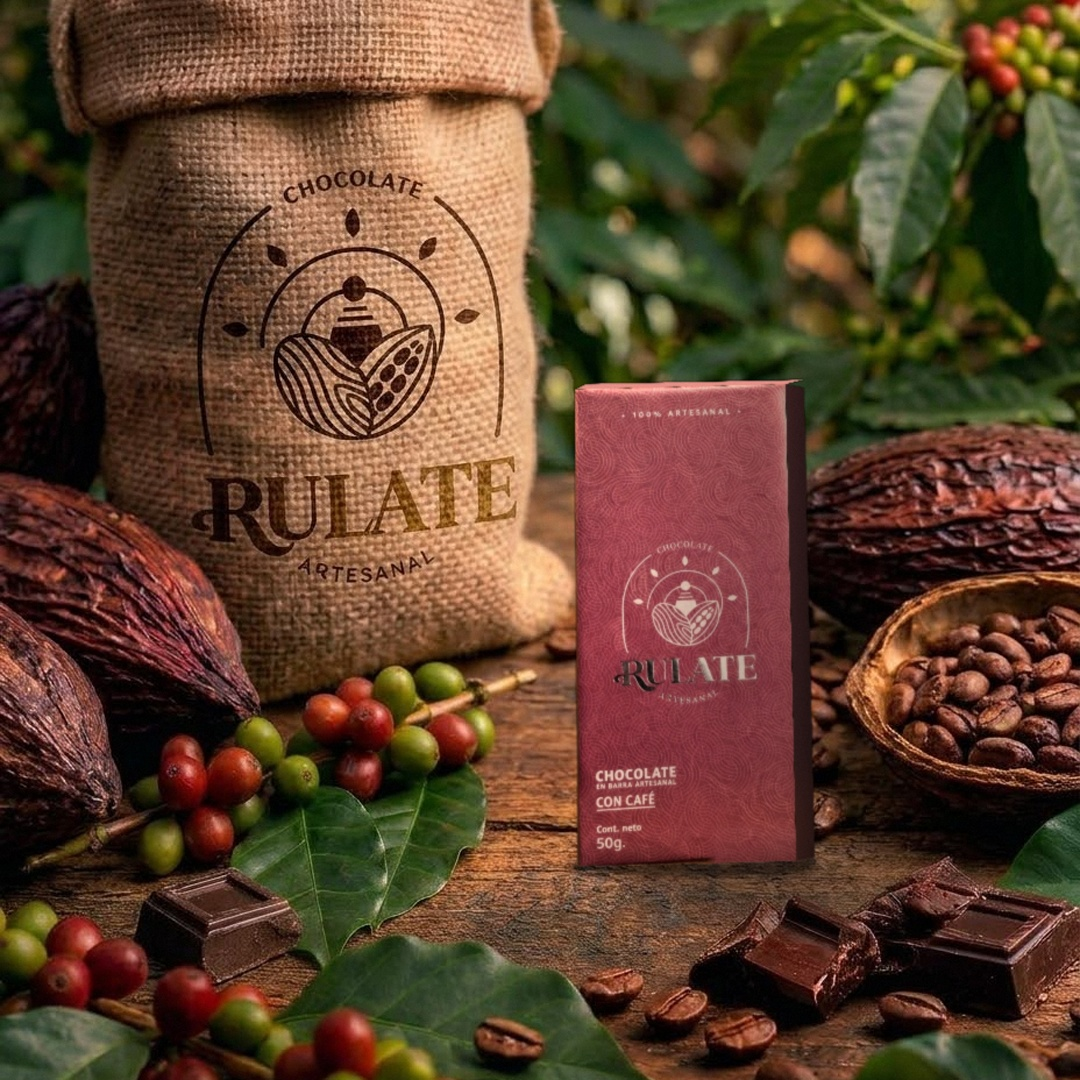
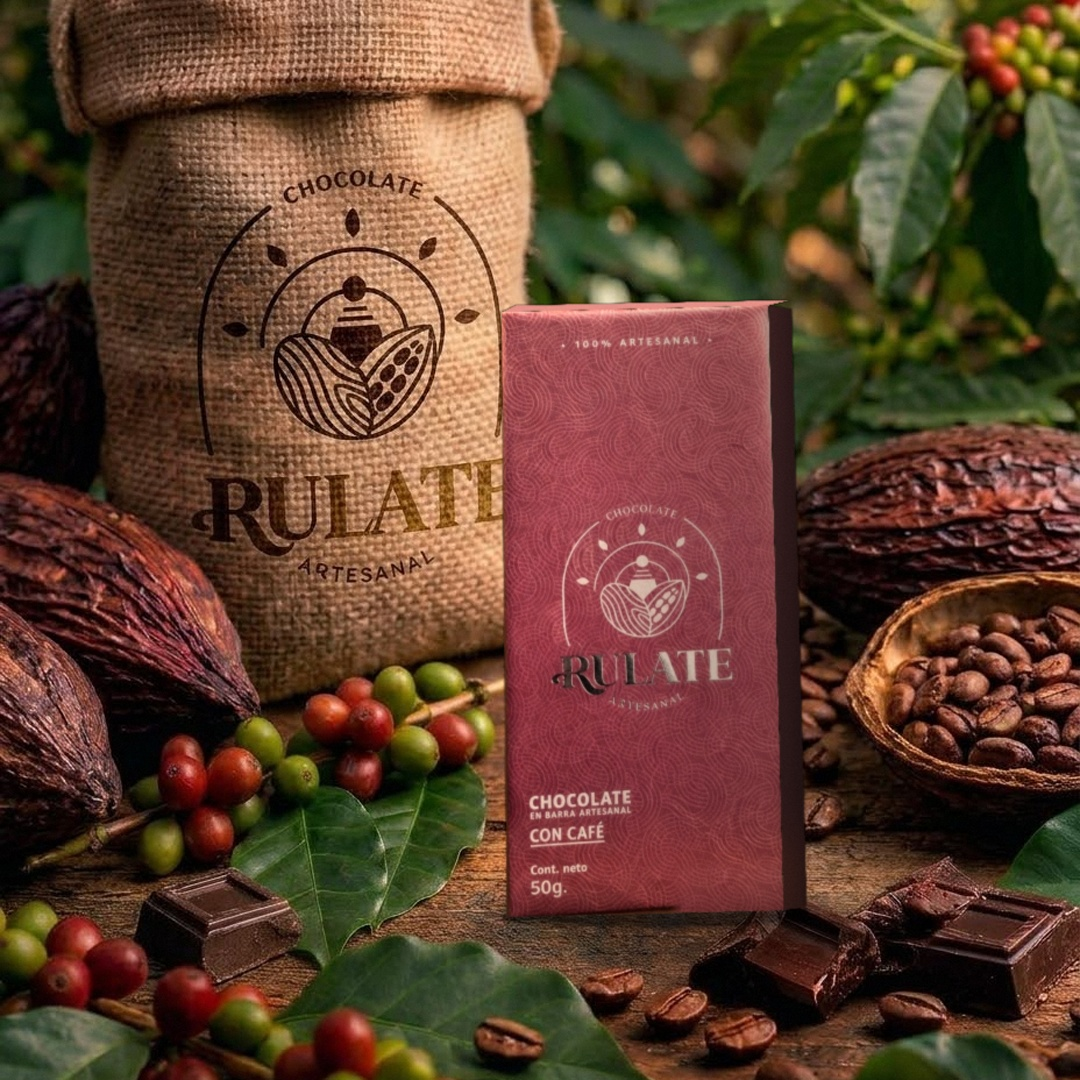
Foto RULATE: barra más grande y al centro como protagonista
Claude-Session: https://claude.ai/code/session_01W4oDbKCp1iqgNx6TH33rNy

Changed region(s): [[0.4583, 0.275, 0.8556, 0.9167], [0.6417, 0.7333, 0.6722, 0.7639]]

diff --git a/fotos-rulate/montaje.py b/fotos-rulate/montaje.py
@@ -32,12 +32,12 @@ scene = cv2.imread(UP + '6ea1270b-image.jpg').astype(np.float32)
 SH, SW = scene.shape[:2]
 
 # Tamaño y posición de la barra en la escena
-bh = 410
+bh = 520
 bw = int(round(bh * W / H))
-cx, base_y = 590, 872
+cx, base_y = 554, 915
 lean = 0.035  # la parte de arriba un poco más angosta (perspectiva / ligera inclinación)
-thick = 16    # grosor visible del lateral derecho
-top_th = 5    # grosor visible del borde superior
+thick = 20    # grosor visible del lateral derecho
+top_th = 6    # grosor visible del borde superior
 
 fl = (cx - bw / 2, base_y)
 fr = (cx + bw / 2, base_y)
